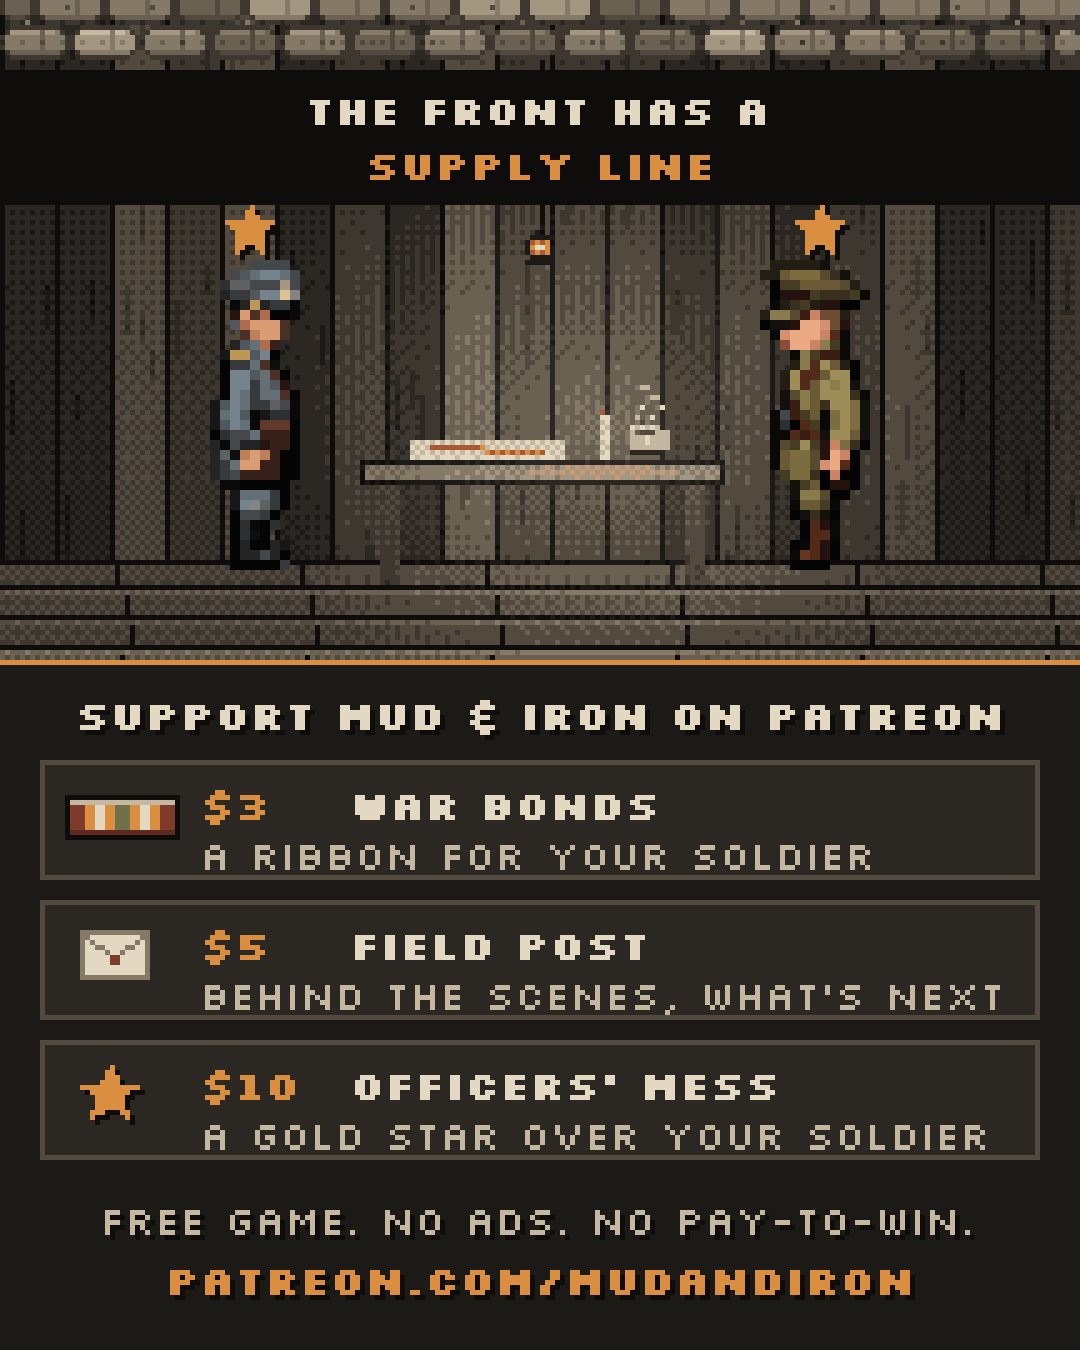
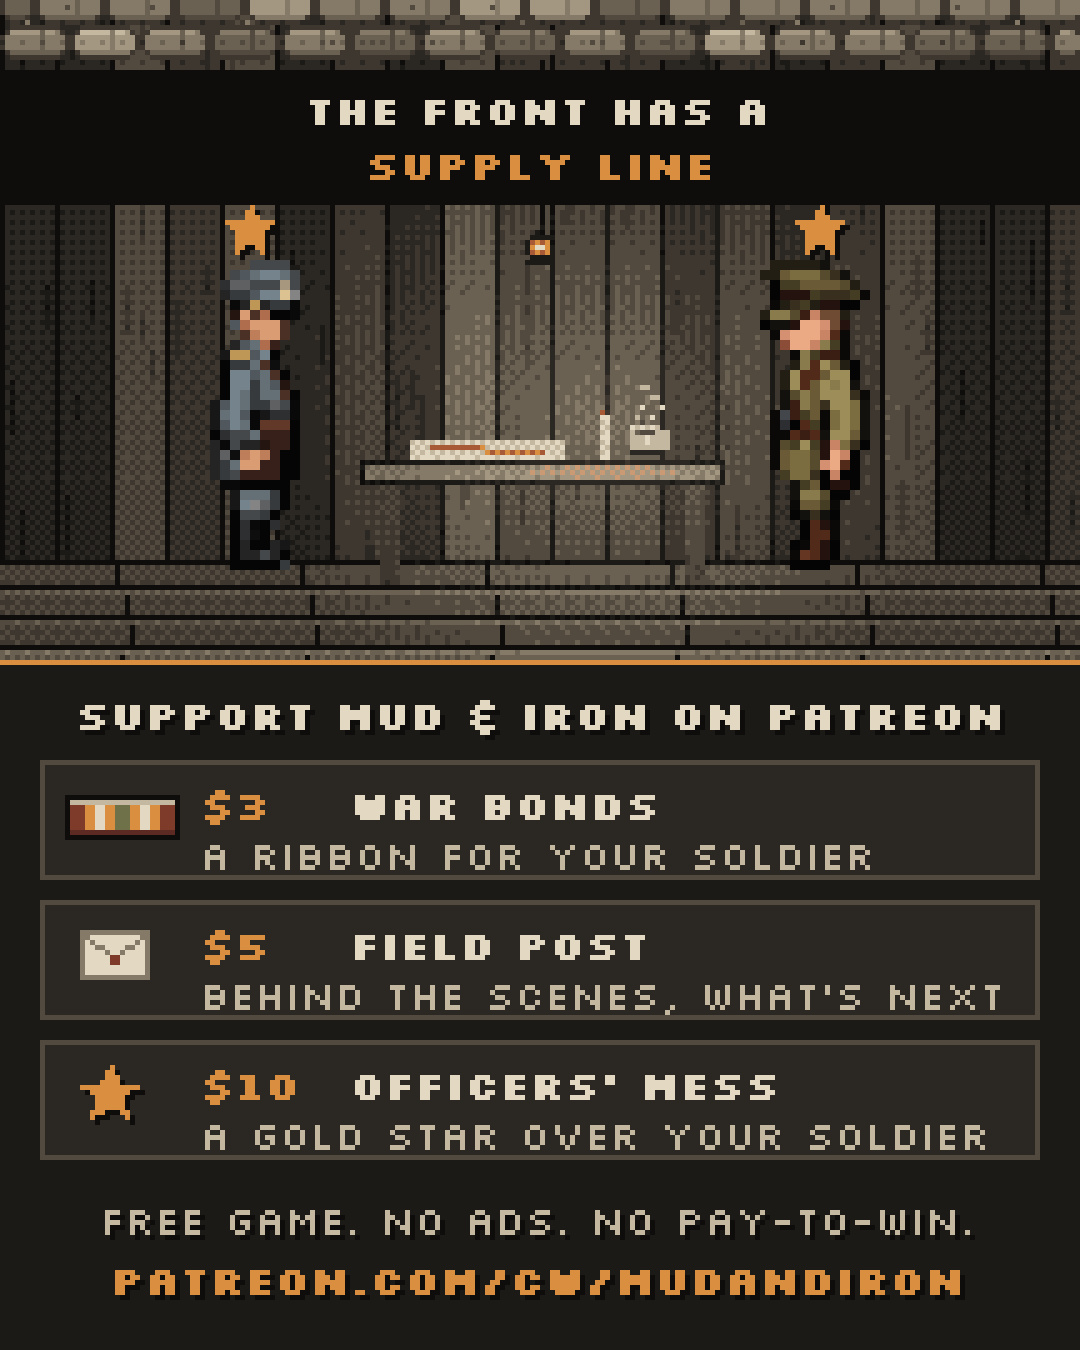
Patreon: všude odkaz patreon.com/cw/MudandIron (web, obrázky, texty, návrh postu)
Claude-Session: https://claude.ai/code/session_01VWWMSwJGFZow7tBNcmKaEZ

Changed region(s): [[0.0917, 0.9333, 0.8861, 0.9644]]

diff --git a/marketing/make_patreon.py b/marketing/make_patreon.py
@@ -344,7 +344,7 @@ def post_launch():
         d.text((70, y + 3), name, font=font(8, True), fill=P["white"])
         d.text((40, y + 13), what, font=font(8), fill=P["pale"])
     text_c(d, W // 2, 238, "FREE GAME. NO ADS. NO PAY-TO-WIN.", font(8), P["pale"])
-    text_c(d, W // 2, 250, "PATREON.COM/MUDANDIRON", font(8, True), P["gold"])
+    text_c(d, W // 2, 250, "PATREON.COM/CW/MUDANDIRON", font(8, True), P["gold"])
     save(im, "post_patreon_launch.jpg", 5)
 
 
@@ -404,7 +404,7 @@ def post_launch_wide():
         d.text((X0 + 28, y + 14), what, font=font(8), fill=P["pale"])
     d.text((X0, 136), "FREE GAME. NO ADS.", font=font(8), fill=P["pale"])
     d.text((X0, 146), "NO PAY-TO-WIN.", font=font(8), fill=P["pale"])
-    d.text((X0, 160), "PATREON.COM/MUDANDIRON", font=font(8, True), fill=P["gold"])
+    d.text((X0, 160), "PATREON.COM/CW/MUDANDIRON", font=font(8, True), fill=P["gold"])
     save(im, "post_patreon_1500x900.jpg", 5)
 
 

diff --git a/marketing/make_support.py b/marketing/make_support.py
@@ -15,7 +15,7 @@ from day_art import planks, light, shade, sandbag_wall, lamp  # noqa: E402
 
 ROOT = os.path.dirname(os.path.dirname(os.path.abspath(__file__)))
 PROMO = os.path.join(ROOT, "marketing", "promo")
-URL = "PATREON.COM/MUDANDIRON"  # adresa stránky podpory (theme.support.url)
+URL = "PATREON.COM/CW/MUDANDIRON"  # adresa stránky podpory (theme.support.url)
 
 # pruhy stužky War Bonds (stejné jako na webu: .ribbon ve web/src/style.css)
 STRIPES = ["rust", "gold", "white", "gold", "olive", "gold", "white", "gold", "rust"]

diff --git a/docs/MECHANICS.md b/docs/MECHANICS.md
@@ -351,6 +351,6 @@ Nasycení palby (`roles.saturation` = 1) zůstává: když má střelec u sebe v
 
 ### 2026-11-14: podpora přechází z Ko-fi na Patreon (NASAZENO, tlačítka zatím skrytá)
 Ko-fi zamítlo platby (problém s účtem Stripe). War Bonds zůstávají stejné (stužka, zápis, poděkování v novinách, jen čest), mění se jen služba:
-`theme.support.url` = https://www.patreon.com/mudandiron, `theme.support.platform` = "Patreon" (texty na webu: „Support the front on Patreon“).
+`theme.support.url` = https://www.patreon.com/cw/MudandIron, `theme.support.platform` = "Patreon" (texty na webu: „Support the front on Patreon“).
 Úrovně (schváleno 14. 11.): War Bonds 3 USD, Field Post 5 USD (exkluzivní příspěvky ze zákulisí a chystané věci), Officers' Mess 10 USD (zlatá hvězda nad vojákem na mapě, vidět při každém přiblížení; příkaz `star`/`unstar`, `theme.support.star`, `grantStar` v `engine/roster.js`); stužka od 3 USD, zůstává i po zrušení. Patron pošle na Patreonu IG jméno, udělení dál ručně příkazem `support`.
 Texty stránky, úrovně a uvítací zprávy: `marketing/patreon.md`; grafika `marketing/make_support.py` (patreon_cover/avatar/tier). Tlačítka na webu zapnout (`buttons: true`) až po ověření stránky.

diff --git a/marketing/patreon.md b/marketing/patreon.md
@@ -93,7 +93,7 @@ Thank you for keeping the front fed.
 Ribbon pinned. Your soldier {soldier name} wears the War Bonds from today, and the Gazette will thank you at 13:00 UTC. The front remembers.
 
 ## Instagram bio line
-Free WW1 trench war in the comments ⚔ Comment HEGEMONY or CONCORD to enlist · Support: patreon.com/mudandiron
+Free WW1 trench war in the comments ⚔ Comment HEGEMONY or CONCORD to enlist · Support: patreon.com/cw/MudandIron
 
 <!-- Provoz (pro Claude): stužku uděluje příkaz { "id": "support-<handle>-<datum>", "cmd": "support", "handle": "<ig>" } v data/commands.json.
 Po založení stránky: ověřit adresu (theme.support.url, URL v make_support.py), zapnout theme.support.buttons: true.
